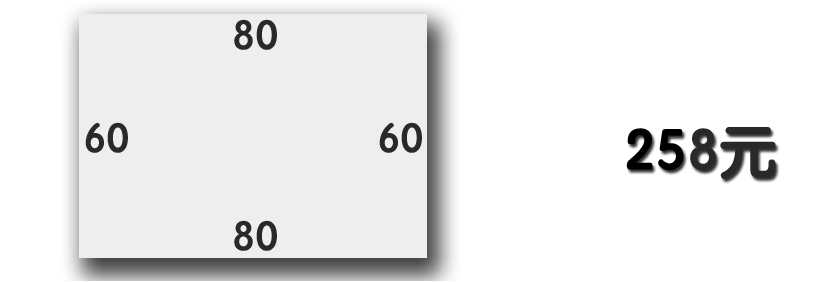
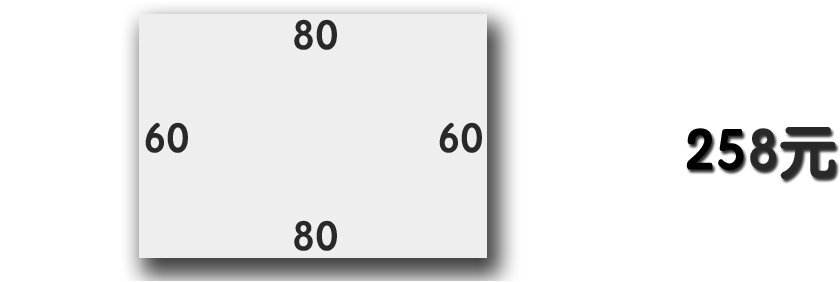
board-img is 224px width

diff --git a/css/book-default.css b/css/book-default.css
@@ -2857,6 +2857,10 @@ section.complaint .other-info {
     font-size: 42px;
 }
 
+.board_img {
+    width : 224px;
+}
+
 /*# sourceMappingURL=book-default.css.map */
 
 

diff --git a/book.php b/book.php
@@ -241,7 +241,7 @@ if ($wx_code == null)
 		<table id="board-group" style="border:none" cellspacing="0" width="100%">
 		<!--小画板-->
 		<tr>
-			<td width="280"><img width="280" src='./img/too-board-small.png'/></td>
+			<td class="board_img"><img class="board_img" src='./img/too-board-small.png'/></td>
 			<td align="center">
                 <span class="value board_sel" id="J-input-board-small">0</span><label>张</label>
                 <i class="caret"></i>
@@ -260,7 +260,7 @@ if ($wx_code == null)
         <table id="board-group" style="border:none" cellspacing="0" width="100%">
 		<!--中画板-->
 		<tr>
-			<td width="280"><img width="280" src='./img/too-board-medium.png'/></td>
+			<td class="board_img"><img class="board_img" src='./img/too-board-medium.png'/></td>
 			<td align="center">
                 <span class="value board_sel" id="J-input-board-medium"><?php echo $BOARD_M_DEFAULT ?></span><label>张</label>
                 <i class="caret"></i>
@@ -291,7 +291,7 @@ if ($wx_code == null)
         <table id="board-group" style="border:none" cellspacing="0" width="100%">
 		<!--大画板-->
 		<tr>
-			<td width="280"><img width="280" src='./img/too-board-large.png'/></td>
+			<td class="board_img"><img class="board_img" src='./img/too-board-large.png'/></td>
 			<td align="center">
                 <span class="value board_sel" id="J-input-board-large">0</span><label>张</label>
                 <i class="caret"></i>
